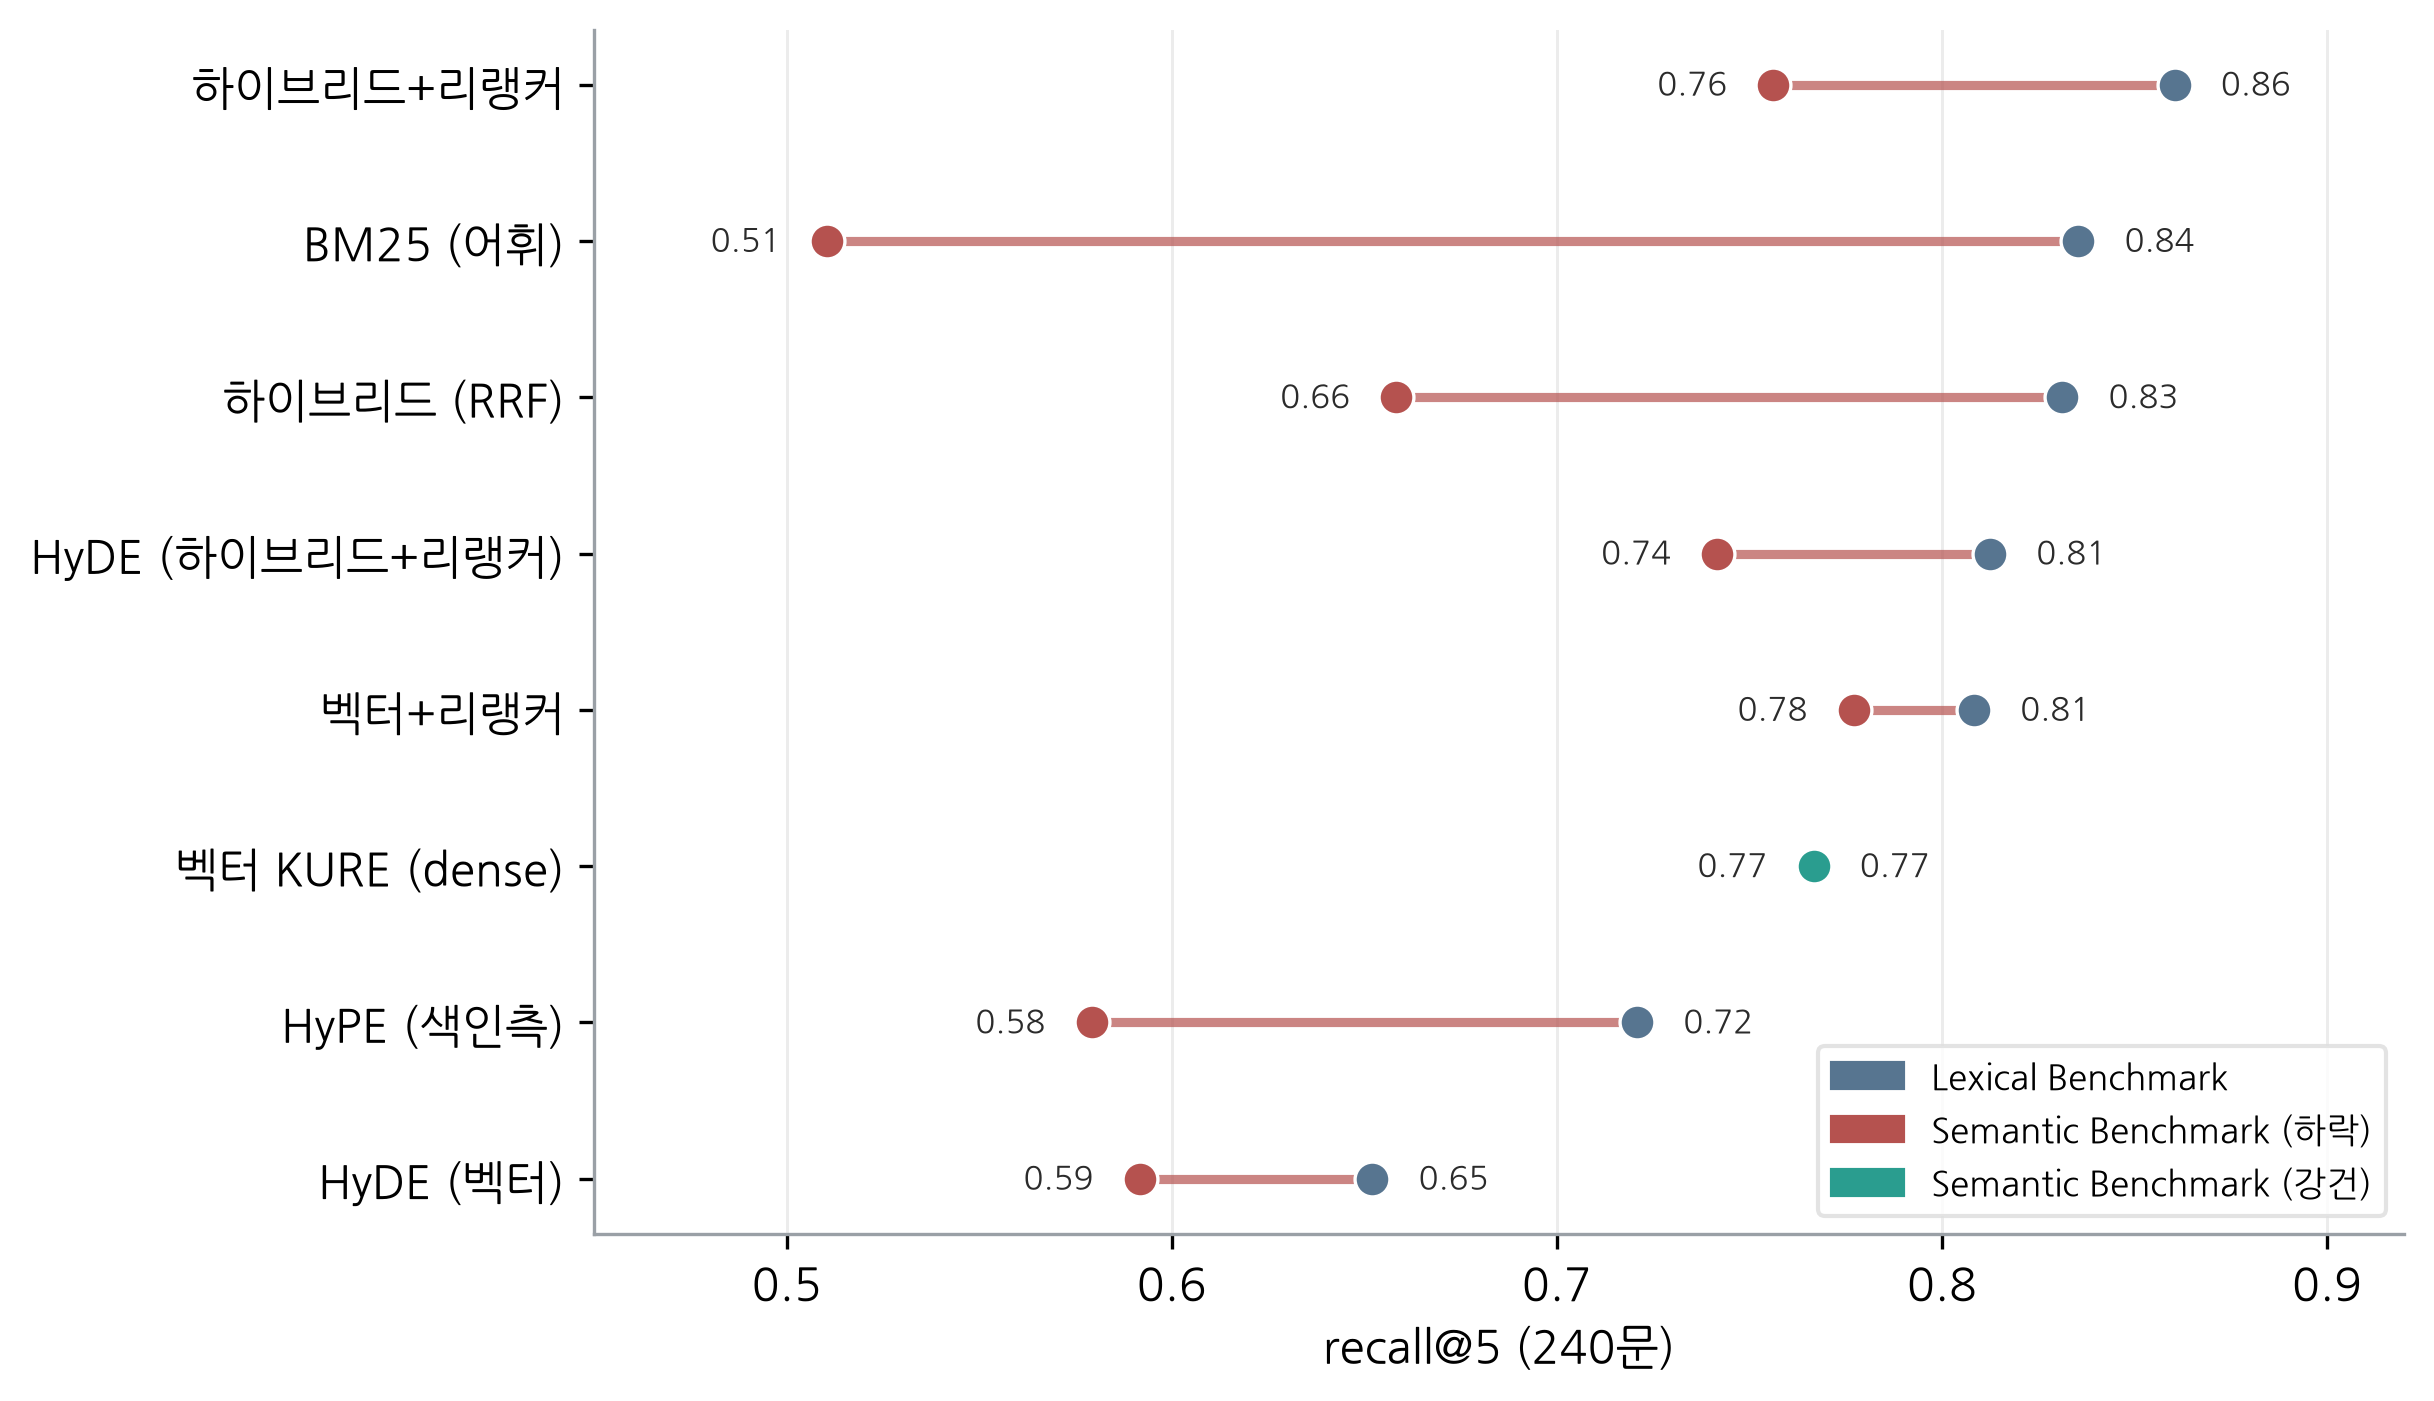
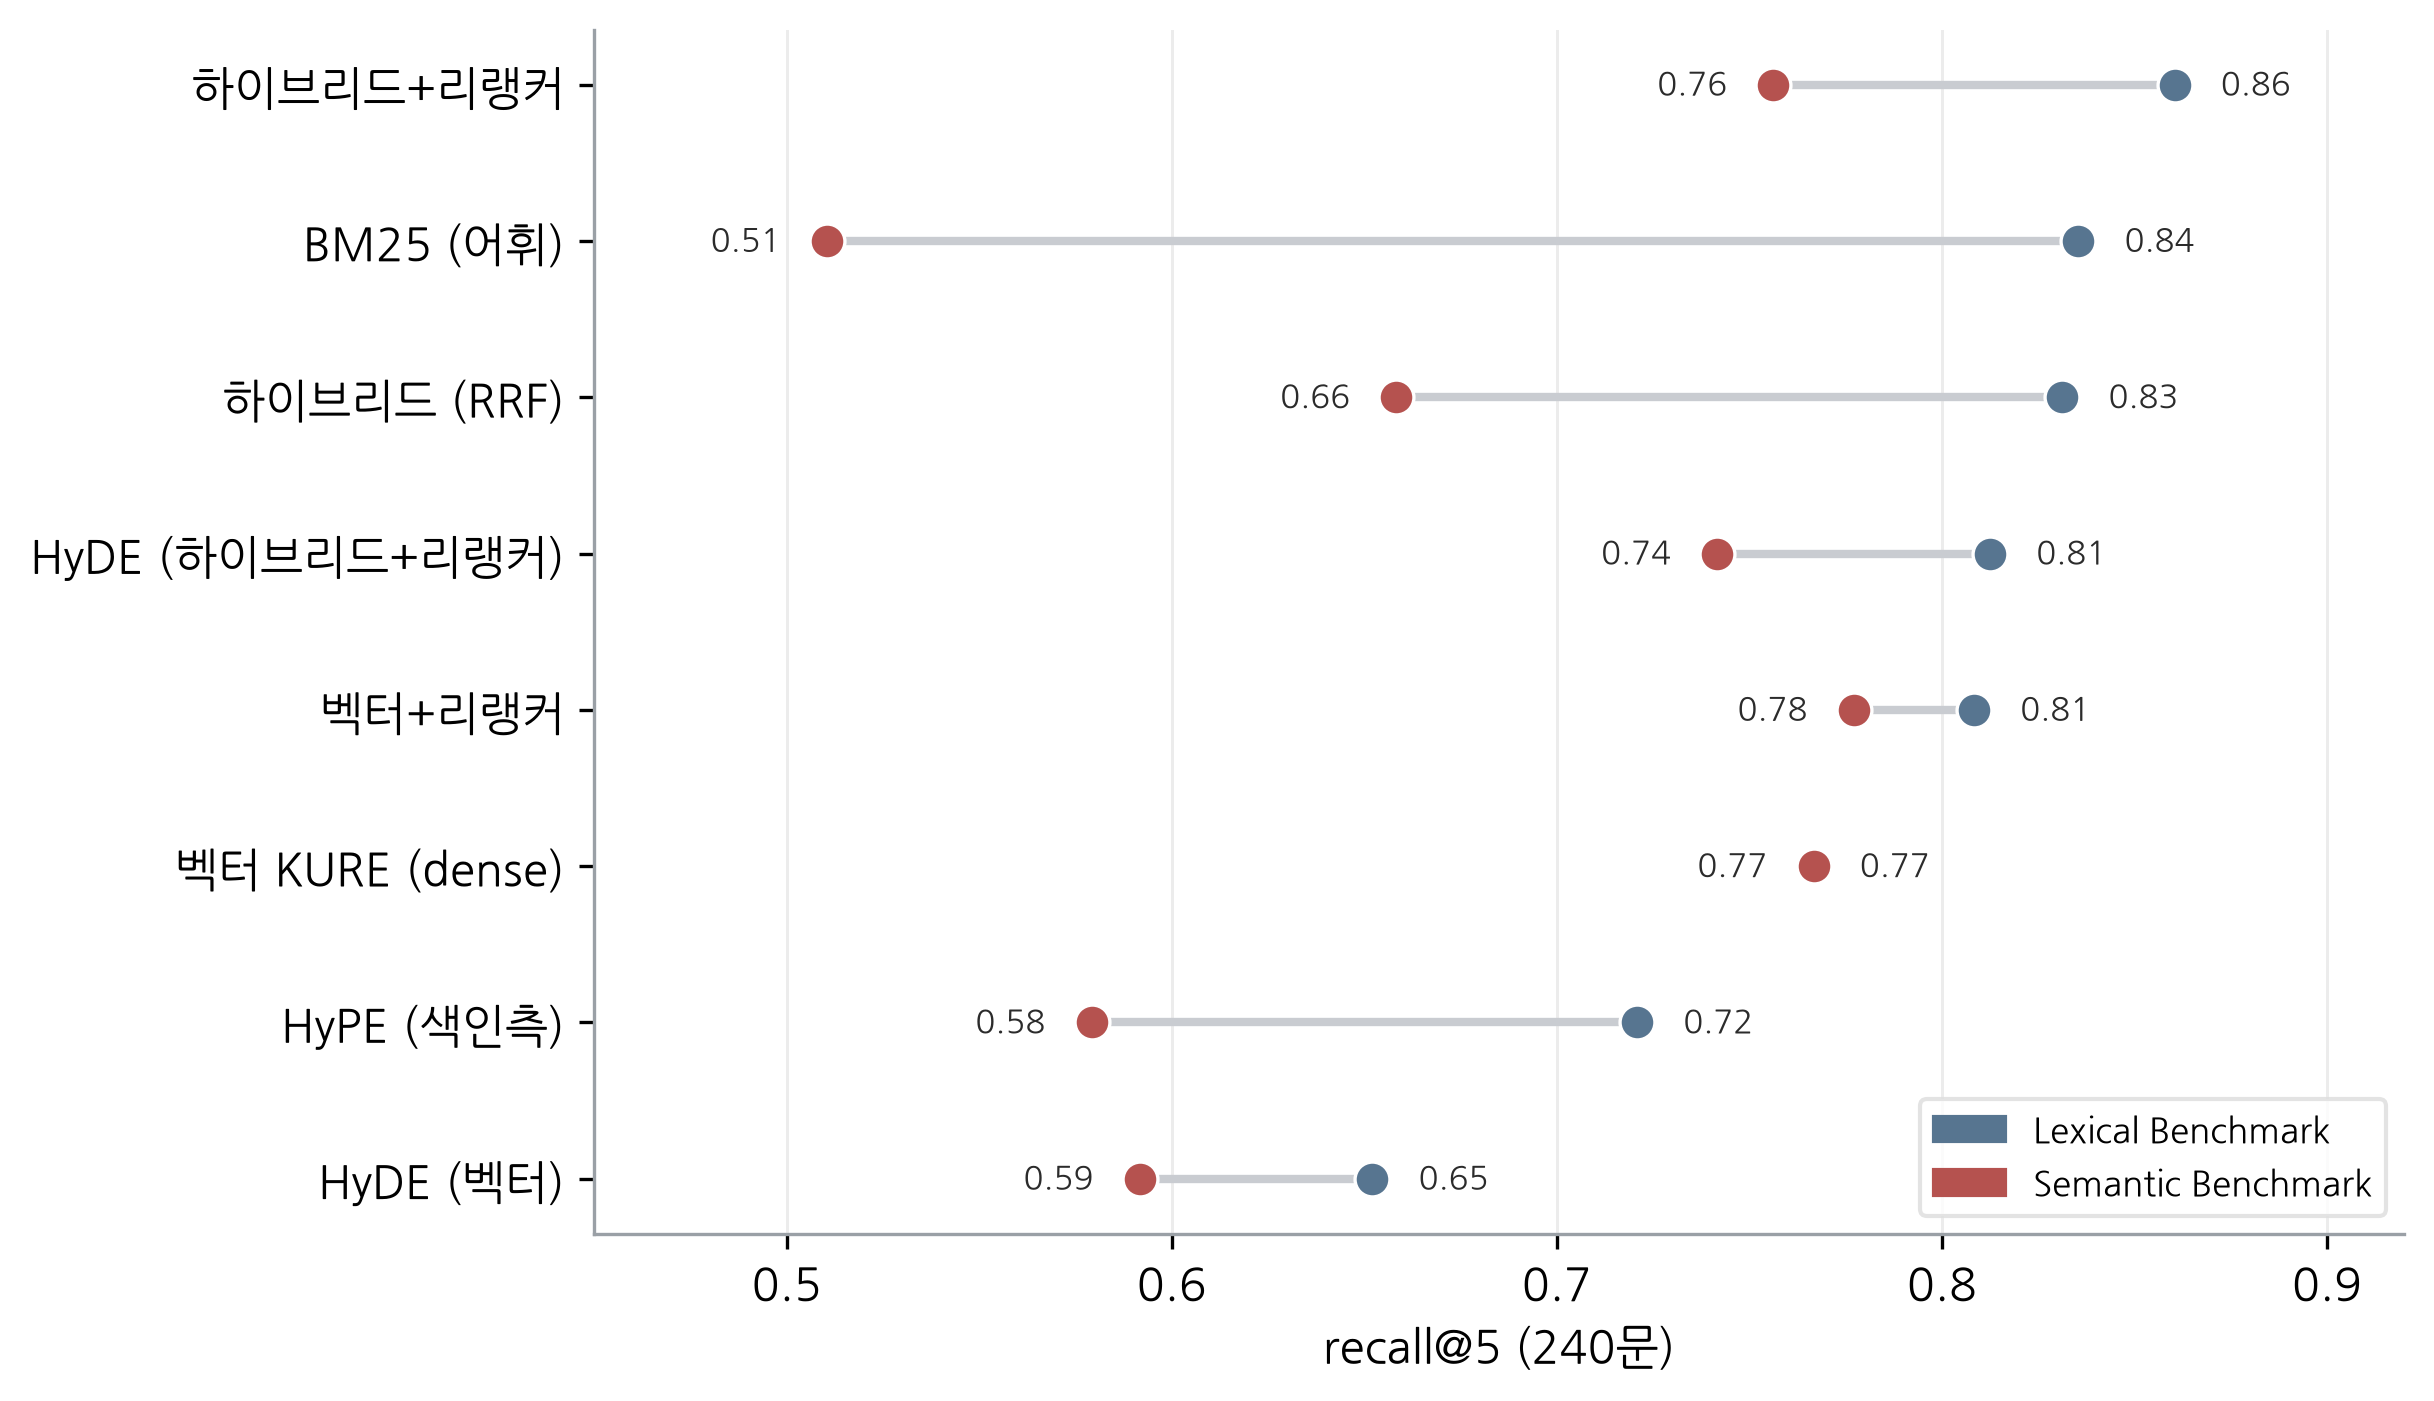
그림 8 단순화: 하락/강건 색 구분 제거, Lexical/Semantic 2색만
연결선 길이로 변화 크기를 보이고 범례를 두 벤치마크로만 단순화(가독성)

diff --git a/benchmark/make_figures.py b/benchmark/make_figures.py
@@ -279,19 +279,16 @@ def f8_lowoverlap():
     ax.set_axisbelow(True)
     ax.grid(axis="x", color="#ececec", lw=0.7)
     for i, (_, ov, lo) in enumerate(data):
-        drop = ov - lo
-        lc = AUG if drop > 0.02 else BEST  # 하락 큰 건 brick, 강건(거의 변화없음)은 teal
-        ax.plot([ov, lo], [i, i], color=lc, lw=2.2, zorder=1, alpha=0.7)
+        ax.plot([ov, lo], [i, i], color="#c9ccd1", lw=2.0, zorder=1)   # 중립 연결선(길이=변화 크기)
         ax.scatter(ov, i, color=BASE, s=70, zorder=3, edgecolor="white", linewidth=0.8)
-        ax.scatter(lo, i, color=lc, s=70, zorder=3, edgecolor="white", linewidth=0.8)
+        ax.scatter(lo, i, color=AUG, s=70, zorder=3, edgecolor="white", linewidth=0.8)
         ax.text(min(ov, lo) - 0.012, i, f"{min(ov, lo):.2f}", va="center", ha="right", fontsize=8, color=INK)
         ax.text(max(ov, lo) + 0.012, i, f"{max(ov, lo):.2f}", va="center", ha="left", fontsize=8, color=INK)
     ax.set_yticks(y, labels=labels)
     ax.set_xlim(0.45, 0.92)
     ax.set_xlabel("recall@5 (240문)")
     ax.legend(handles=[Patch(color=BASE, label="Lexical Benchmark"),
-                       Patch(color=AUG, label="Semantic Benchmark (하락)"),
-                       Patch(color=BEST, label="Semantic Benchmark (강건)")],
+                       Patch(color=AUG, label="Semantic Benchmark")],
               loc="lower right", fontsize=8.5, frameon=True, edgecolor="#dddddd")
     save(fig, "fig_08_lowoverlap.png")
 